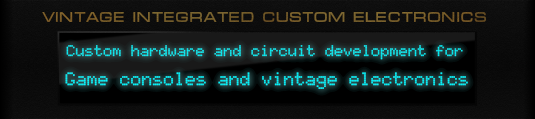
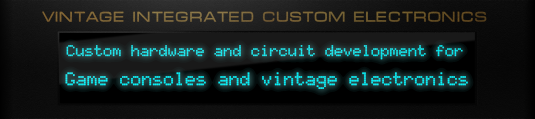
Update Files
Update style.css
Update vice.png

Changed region(s): [[0.0897, 0.0, 0.628, 0.2017], [0.6579, 0.0756, 0.9271, 0.2017]]

diff --git a/style.css b/style.css
@@ -17,7 +17,7 @@ img.logo {
   height: auto;
   margin-bottom: 15px;  
   vertical-align: bottom;
-  box-shadow: 0 6px 12px rgba(0, 0, 0, 1);
+  filter: drop-shadow(6px 7px 3px black);
 }
 
 .tagline {
@@ -79,6 +79,7 @@ img.logo {
   height: auto;
   margin-left: 1rem;
   transition: transform 0.2s ease;
+  filter: drop-shadow(6px 7px 3px black);
 }
 .project-with-image img:hover {
   transform: scale(1.03);
